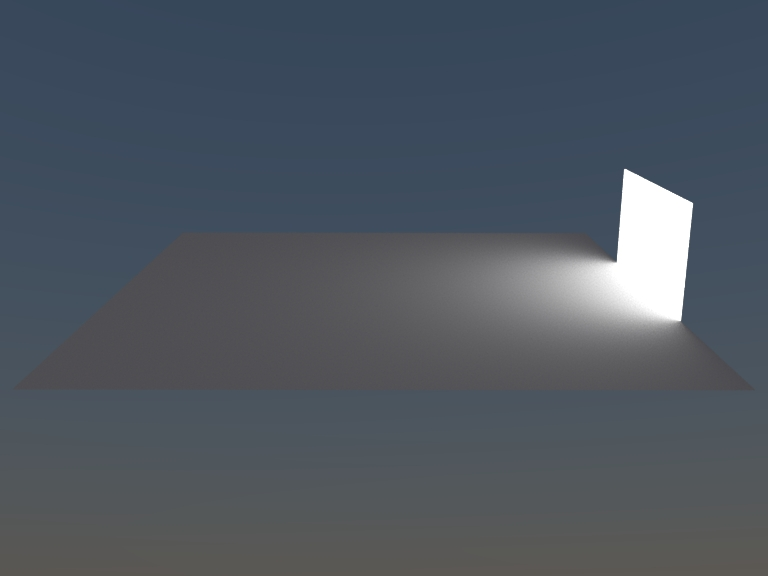
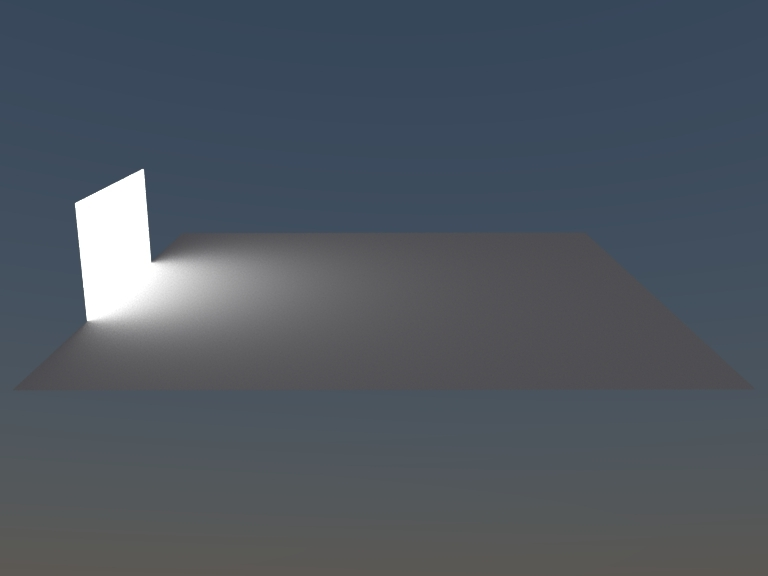
documentation updates, finished the disk shape

Changed region(s): [[0.5938, 0.2812, 0.9062, 0.625], [0.0938, 0.2812, 0.4062, 0.625]]

diff --git a/src/shapes/disk.cpp b/src/shapes/disk.cpp
@@ -25,64 +25,66 @@
 
 MTS_NAMESPACE_BEGIN
 
-/*!\plugin{rectangle}{Rectangle intersection primitive}
- * \order{3}
+/*!\plugin{disk}{Disk intersection primitive}
+ * \order{4}
  * \parameters{
  *     \parameter{toWorld}{\Transform}{
  *	      Specifies a linear object-to-world transformation.
- *        It is allowed to use non-uniform scaling, but no shear.
+ *        Note that non-uniform scales are not permitted!
  *        \default{none (i.e. object space $=$ world space)}
  *     }
  *     \parameter{flipNormals}{\Boolean}{
- *	      Is the rectangle inverted, i.e. should the normal vectors
+ *	      Is the disk inverted, i.e. should the normal vectors
  *		  be flipped? \default{\code{false}}
  *	   }
+ *     \vspace{-8mm}
  * }
  * \renderings{
- *     \rendering{Two rectangles configured as a reflective surface and an
- *     emitter (\lstref{rectangle})}{shape_rectangle}
+ *     \rendering{Rendering with an disk emitter and a textured disk, showing
+ *     the default parameterization. (\lstref{disk})}{shape_disk}
  * }
  * 
- * This shape plugin describes a simple rectangular intersection primitive.
- * It is mainly provided as a convenience for those cases when creating and
- * loading an external mesh with two triangles is simply too tedious, e.g. 
- * when an area light source or a simple ground plane are needed.
+ * \vspace{-1mm}
+ * This shape plugin describes a simple disk intersection primitive. It is
+ * usually preferable over discrete approximations made from triangles.
  *
- * By default, the rectangle covers the XY-range $[-1,1]\times[-1,1]$
- * and has a surface normal that points into the positive $Z$ direction.
- * To change the rectangle scale, rotation, or translation, use the 
+ * By default, the disk has unit radius and is located at the origin. Its
+ * surface normal points into the positive $Z$ direction.
+ * To change the disk scale, rotation, or translation, use the 
  * \code{toWorld} parameter.
  *
- * \vspace{2mm}
- * \begin{xml}[caption={A simple example involving two rectangle instances}, label=lst:rectangle]
+ * \begin{xml}[caption={A simple example involving two disk instances}, label=lst:disk]
  * <scene version="0.3.0">
- *     <shape type="rectangle">
- *         <bsdf type="diffuse"/>
+ *     <shape type="disk">
+ *         <bsdf type="diffuse">
+ *             <texture name="reflectance" type="checkerboard">
+ *                 <float name="uvscale" value="5"/>
+ *             </texture>
+ *         </bsdf>
  *     </shape>
- *     <shape type="rectangle">
+ *     <shape type="disk">
  *         <transform name="toWorld">
  *             <rotate x="1" angle="90"/>
- *             <scale x="0.4" y="0.3" z="0.2"/>
- *             <translate y="1" z="0.2"/>
+ *             <scale value="0.3"/>
+ *             <translate y="1" z="0.3"/>
  *         </transform>
  *         <luminaire type="area">
- *             <spectrum name="intensity" value="3"/>
+ *             <spectrum name="intensity" value="4"/>
  *         </luminaire>
  *     </shape>
- *     <!-- ... other definitions ... -->
  * </scene>
  * \end{xml}
  */
-class Rectangle : public Shape {
+class Disk : public Shape {
 public:
-	Rectangle(const Properties &props) : Shape(props) {
+	Disk(const Properties &props) : Shape(props) {
 		m_objectToWorld = props.getTransform("toWorld", Transform());
 		if (props.getBoolean("flipNormals", false))
 			m_objectToWorld = m_objectToWorld * Transform::scale(Vector(1, 1, -1));
 		m_worldToObject = m_objectToWorld.inverse();
 	}
 
-	Rectangle(Stream *stream, InstanceManager *manager) 
+	Disk(Stream *stream, InstanceManager *manager) 
 			: Shape(stream, manager) {
 		m_objectToWorld = Transform(stream);
 		m_worldToObject = m_objectToWorld.inverse();
@@ -97,22 +99,26 @@ public:
 	void configure() {
 		Shape::configure();
 
-		m_dpdu = m_objectToWorld(Vector(1, 0, 0));
-		m_dpdv = m_objectToWorld(Vector(0, 1, 0));
-		Normal normal = normalize(m_objectToWorld(Normal(0, 0, 1)));
-		m_frame = Frame(normalize(m_dpdu), normalize(m_dpdv), normal);
+		m_normal = normalize(m_objectToWorld(Normal(0, 0, 1)));
 
-		m_surfaceArea = 4 * m_dpdu.length() * m_dpdv.length();
-		if (std::abs(dot(m_dpdu, m_dpdv)) > Epsilon)
+		Vector dpdu = m_objectToWorld(Vector(1, 0, 0));
+		Vector dpdv = m_objectToWorld(Vector(0, 1, 0));
+
+		if (std::abs(dot(dpdu, dpdv)) > Epsilon)
 			Log(EError, "Error: 'toWorld' transformation contains shear!");
+
+		if (std::abs(dpdu.length() / dpdv.length() - 1) > Epsilon)
+			Log(EError, "Error: 'toWorld' transformation contains a non-uniform scale!");
+
+		m_surfaceArea = M_PI * dpdu.length() * dpdu.length();
 	}
 
 	AABB getAABB() const {
 		AABB aabb;
-		aabb.expandBy(m_objectToWorld(Point(-1, -1, 0)));
-		aabb.expandBy(m_objectToWorld(Point( 1, -1, 0)));
-		aabb.expandBy(m_objectToWorld(Point( 1,  1, 0)));
-		aabb.expandBy(m_objectToWorld(Point(-1,  1, 0)));
+		aabb.expandBy(m_objectToWorld(Point( 1,  0, 0)));
+		aabb.expandBy(m_objectToWorld(Point(-1,  0, 0)));
+		aabb.expandBy(m_objectToWorld(Point( 0,  1, 0)));
+		aabb.expandBy(m_objectToWorld(Point( 0, -1, 0)));
 		return aabb;
 	}
 
@@ -130,7 +136,7 @@ public:
 
 		Point local = ray(hit);
 
-		if (std::abs(local.x) > 1 || std::abs(local.y) > 1)
+		if (local.x * local.x + local.y * local.y > 1)
 			return false;
 
 		t = hit;
@@ -146,16 +152,28 @@ public:
 
 	bool rayIntersect(const Ray &ray, Float mint, Float maxt) const {
 		Float t;
-		return Rectangle::rayIntersect(ray, mint, maxt, t, NULL);
+		return Disk::rayIntersect(ray, mint, maxt, t, NULL);
 	}
 
 	void fillIntersectionRecord(const Ray &ray, 
 			const void *temp, Intersection &its) const {
 		const Float *data = static_cast<const Float *>(temp);
-		its.shFrame = its.geoFrame = m_frame;
-		its.dpdu = m_dpdu;
-		its.dpdv = m_dpdv;
-		its.uv = Point2(0.5f * (data[0]+1), 0.5f * (data[1]+1));
+
+		Float r = std::sqrt(data[0] * data[0] + data[1] * data[1]),
+			  invR = (r == 0) ? 0.0f : (1.0f / r);
+
+		Float phi = std::atan2(data[1], data[0]);
+		if (phi < 0)
+			phi += 2*M_PI;
+
+		Float cosPhi = data[0] * invR, sinPhi = data[1] * invR;
+
+		its.dpdu = m_objectToWorld(Vector(cosPhi, sinPhi, 0));
+		its.dpdv = m_objectToWorld(Vector(-sinPhi, cosPhi, 0));
+
+		its.shFrame = its.geoFrame = Frame(
+			normalize(its.dpdu), normalize(its.dpdv), m_normal);
+		its.uv = Point2(r, phi * INV_TWOPI);
 		its.p = ray(its.t);
 		its.wi = its.toLocal(-ray.d);
 		its.shape = this;
@@ -163,32 +181,37 @@ public:
 	}
 
 	ref<TriMesh> createTriMesh() {
+		const unsigned int phiSteps = 40;
+
 		ref<TriMesh> mesh = new TriMesh(getName(),
-			2, 4, true, true, false);
+			phiSteps-1, 2*phiSteps, true, true, false);
 
 		Point *vertices = mesh->getVertexPositions();
 		Normal *normals = mesh->getVertexNormals();
 		Point2 *texcoords = mesh->getVertexTexcoords();
 		Triangle *triangles = mesh->getTriangles();
 
-		vertices[0] = m_objectToWorld(Point(-1, -1, 0));
-		vertices[1] = m_objectToWorld(Point( 1, -1, 0));
-		vertices[2] = m_objectToWorld(Point( 1,  1, 0));
-		vertices[3] = m_objectToWorld(Point(-1,  1, 0));
-		
-		texcoords[0] = Point2(0, 0);
-		texcoords[1] = Point2(1, 0);
-		texcoords[2] = Point2(1, 1);
-		texcoords[3] = Point2(0, 1);
+		Float dphi = (2 * M_PI) / (Float) (phiSteps-1);
 
-		normals[0] = normals[1] = normals[2] = normals[3] = m_frame.n;
-		triangles[0].idx[0] = 0;
-		triangles[0].idx[1] = 1;
-		triangles[0].idx[2] = 2;
-		
-		triangles[1].idx[0] = 2;
-		triangles[1].idx[1] = 3;
-		triangles[1].idx[2] = 0;
+		Point center = m_objectToWorld(Point(0.0f));
+		for (size_t i=0; i<phiSteps; ++i) {
+			Float phi = i*dphi;
+			vertices[i] = center;
+			vertices[phiSteps+i] = m_objectToWorld(
+				Point(std::cos(phi), std::sin(phi), 0)
+			);
+
+			normals[i] = m_normal;
+			normals[phiSteps+i] = m_normal;
+			texcoords[i] = Point2(0.0f, phi * INV_TWOPI);
+			texcoords[phiSteps+i] = Point2(1.0f, phi * INV_TWOPI);
+		}
+
+		for (size_t i=0; i<phiSteps-1; ++i) {
+			triangles[i].idx[0] = i;
+			triangles[i].idx[1] = i+phiSteps;
+			triangles[i].idx[2] = i+phiSteps+1;
+		}
 
 		mesh->setBSDF(m_bsdf);
 		mesh->setLuminaire(m_luminaire);
@@ -199,7 +222,7 @@ public:
 
 	std::string toString() const {
 		std::ostringstream oss;
-		oss << "Rectangle[" << endl
+		oss << "Disk[" << endl
 			<< "  objectToWorld = " << indent(m_objectToWorld.toString()) << ", " << endl
 			<< "  bsdf = " << indent(m_bsdf.toString()) << "," << endl
 			<< "  luminaire = " << indent(m_luminaire.toString()) << "," << endl
@@ -209,8 +232,9 @@ public:
 	}
 
 	Float sampleArea(ShapeSamplingRecord &sRec, const Point2 &sample) const {
-		sRec.n = m_frame.n;
-		sRec.p = m_objectToWorld(Point3(sample.x * 2 - 1, sample.y * 2 - 1, 0));
+		sRec.n = m_normal;
+		Point2 p = squareToDiskConcentric(sample);
+		sRec.p = m_objectToWorld(Point3(p.x, p.y, 0));
 		return 1.0f / m_surfaceArea;
 	}
 
@@ -222,11 +246,10 @@ public:
 private:
 	Transform m_objectToWorld;
 	Transform m_worldToObject;
-	Frame m_frame;
-	Vector m_dpdu, m_dpdv;
+	Normal m_normal;
 	Float m_surfaceArea;
 };
 
-MTS_IMPLEMENT_CLASS_S(Rectangle, false, Shape)
-MTS_EXPORT_PLUGIN(Rectangle, "Rectangle intersection primitive");
+MTS_IMPLEMENT_CLASS_S(Disk, false, Shape)
+MTS_EXPORT_PLUGIN(Disk, "Disk intersection primitive");
 MTS_NAMESPACE_END

diff --git a/src/libcore/util.cpp b/src/libcore/util.cpp
@@ -690,6 +690,33 @@ Point2 squareToDiskConcentric(const Point2 &sample) {
 	return result*coords.x;
 }
 
+Point2 diskToSquareConcentric(const Point2 &p) {
+	Float r   = std::sqrt(p.x * p.x + p.y * p.y),
+		  phi = std::atan2(p.y, p.x),
+		  a, b;
+
+	if (phi < -M_PI/4) {
+  		/* in range [-pi/4,7pi/4] */
+		phi += 2*M_PI;
+	}
+
+	if (phi < M_PI/4) { /* region 1 */
+		a = r;
+		b = phi * a / (M_PI/4);
+	} else if (phi < 3*M_PI/4) { /* region 2 */
+		b = r;
+		a = -(phi - M_PI/2) * b / (M_PI/4);
+	} else if (phi < 5*M_PI/4) { /* region 3 */
+		a = -r;
+		b = (phi - M_PI) * a / (M_PI/4);
+	} else { /* region 4 */
+		b = -r;
+		a = -(phi - 3*M_PI/2) * b / (M_PI/4);
+	}
+
+	return Point2(0.5f * (a+1), 0.5f * (b+1));
+}
+
 Float squareToConePdf(Float cosCutoff) {
 	return 1 / (2 * M_PI * (1 - cosCutoff));
 }

diff --git a/src/shapes/serialized.cpp b/src/shapes/serialized.cpp
@@ -24,6 +24,7 @@
 MTS_NAMESPACE_BEGIN
 
 /*!\plugin{serialized}{Serialized mesh loader}
+ * \order{11}
  * \parameters{
  *     \parameter{filename}{\String}{
  *	     Filename of the gemoetry file that should be loaded
@@ -44,7 +45,7 @@ MTS_NAMESPACE_BEGIN
  * }
  * This plugin represents the most space and time-efficient way
  * of getting geometry into Mitsuba. It uses a highly efficient
- * lossless compressed format for geometry storage. Th format will
+ * lossless compressed format for geometry storage. The format will
  * be explained on this page in a subsequent revision of the
  * documentation.
  */

diff --git a/include/mitsuba/core/util.h b/include/mitsuba/core/util.h
@@ -438,6 +438,9 @@ extern MTS_EXPORT_CORE Point2 squareToDisk(const Point2 &sample);
 /// Low-distortion concentric square to disk mapping by Peter Shirley (PDF: 1/(2 * PI))
 extern MTS_EXPORT_CORE Point2 squareToDiskConcentric(const Point2 &sample);
 
+/// Low-distortion concentric disk to square mapping 
+extern MTS_EXPORT_CORE Point2 diskToSquareConcentric(const Point2 &sample);
+
 /// Convert an uniformly distributed square sample into barycentric coordinates
 extern MTS_EXPORT_CORE Point2 squareToTriangle(const Point2 &sample);
 

diff --git a/src/librender/texture.cpp b/src/librender/texture.cpp
@@ -45,9 +45,10 @@ Texture2D::Texture2D(const Properties &props) : Texture(props) {
 			props.getFloat("uoffset", 0.0f),
 			props.getFloat("voffset", 0.0f)
 		);
+		Float uvscale = props.getFloat("uvscale", 1.0f);
 		m_uvScale = Vector2(
-			props.getFloat("uscale", 1.0f),
-			props.getFloat("vscale", 1.0f)
+			props.getFloat("uscale", uvscale),
+			props.getFloat("vscale", uvscale)
 		);
 	} else {
 		Log(EError, "Only UV coordinates are supported at the moment!");

diff --git a/src/shapes/ply.cpp b/src/shapes/ply.cpp
@@ -38,7 +38,7 @@ using namespace std::tr1::placeholders;
 MTS_NAMESPACE_BEGIN
 
 /*!\plugin{ply}{PLY (Stanford Triangle Format) mesh loader}
- * \order{4}
+ * \order{6}
  * \parameters{
  *     \parameter{filename}{\String}{
  *	     Filename of the PLY file that should be loaded

diff --git a/src/shapes/shapegroup.cpp b/src/shapes/shapegroup.cpp
@@ -21,7 +21,7 @@
 MTS_NAMESPACE_BEGIN
 
 /*!\plugin{shapegroup}{Shape group for geometry instancing}
- * \order{5}
+ * \order{8}
  * \parameters{
  *     \parameter{\Unnamed}{\Shape}{One or more shapes that should be
  *         made available for geometry instancing}

diff --git a/src/shapes/instance.cpp b/src/shapes/instance.cpp
@@ -21,7 +21,7 @@
 MTS_NAMESPACE_BEGIN
  
 /*!\plugin{instance}{Geometry instance}
- * \order{6}
+ * \order{9}
  * \parameters{
  *     \parameter{\Unnamed}{\ShapeGroup}{A reference to a 
  *     shape group that should be instantiated}

diff --git a/src/shapes/animatedinstance.cpp b/src/shapes/animatedinstance.cpp
@@ -24,7 +24,7 @@
 MTS_NAMESPACE_BEGIN
 
 /*!\plugin{animatedinstance}{Animated geometry instance}
- * \order{6}
+ * \order{10}
  * \parameters{
  *     \parameter{filename}{\String}{Filename of an animated
  *     transformation}

diff --git a/src/shapes/obj.cpp b/src/shapes/obj.cpp
@@ -29,7 +29,7 @@
 MTS_NAMESPACE_BEGIN
 
 /*!\plugin{obj}{Wavefront OBJ mesh loader}
- * \order{3}
+ * \order{5}
  * \parameters{
  *     \parameter{filename}{\String}{
  *	     Filename of the OBJ file that should be loaded

diff --git a/src/shapes/hair.cpp b/src/shapes/hair.cpp
@@ -31,6 +31,7 @@
 MTS_NAMESPACE_BEGIN
 
 /*!\plugin{hair}{Hair intersection shape}
+ * \order{7}
  * \parameters{
  *     \parameter{filename}{\String}{
  *	     Filename of the hair data file that should be loaded
